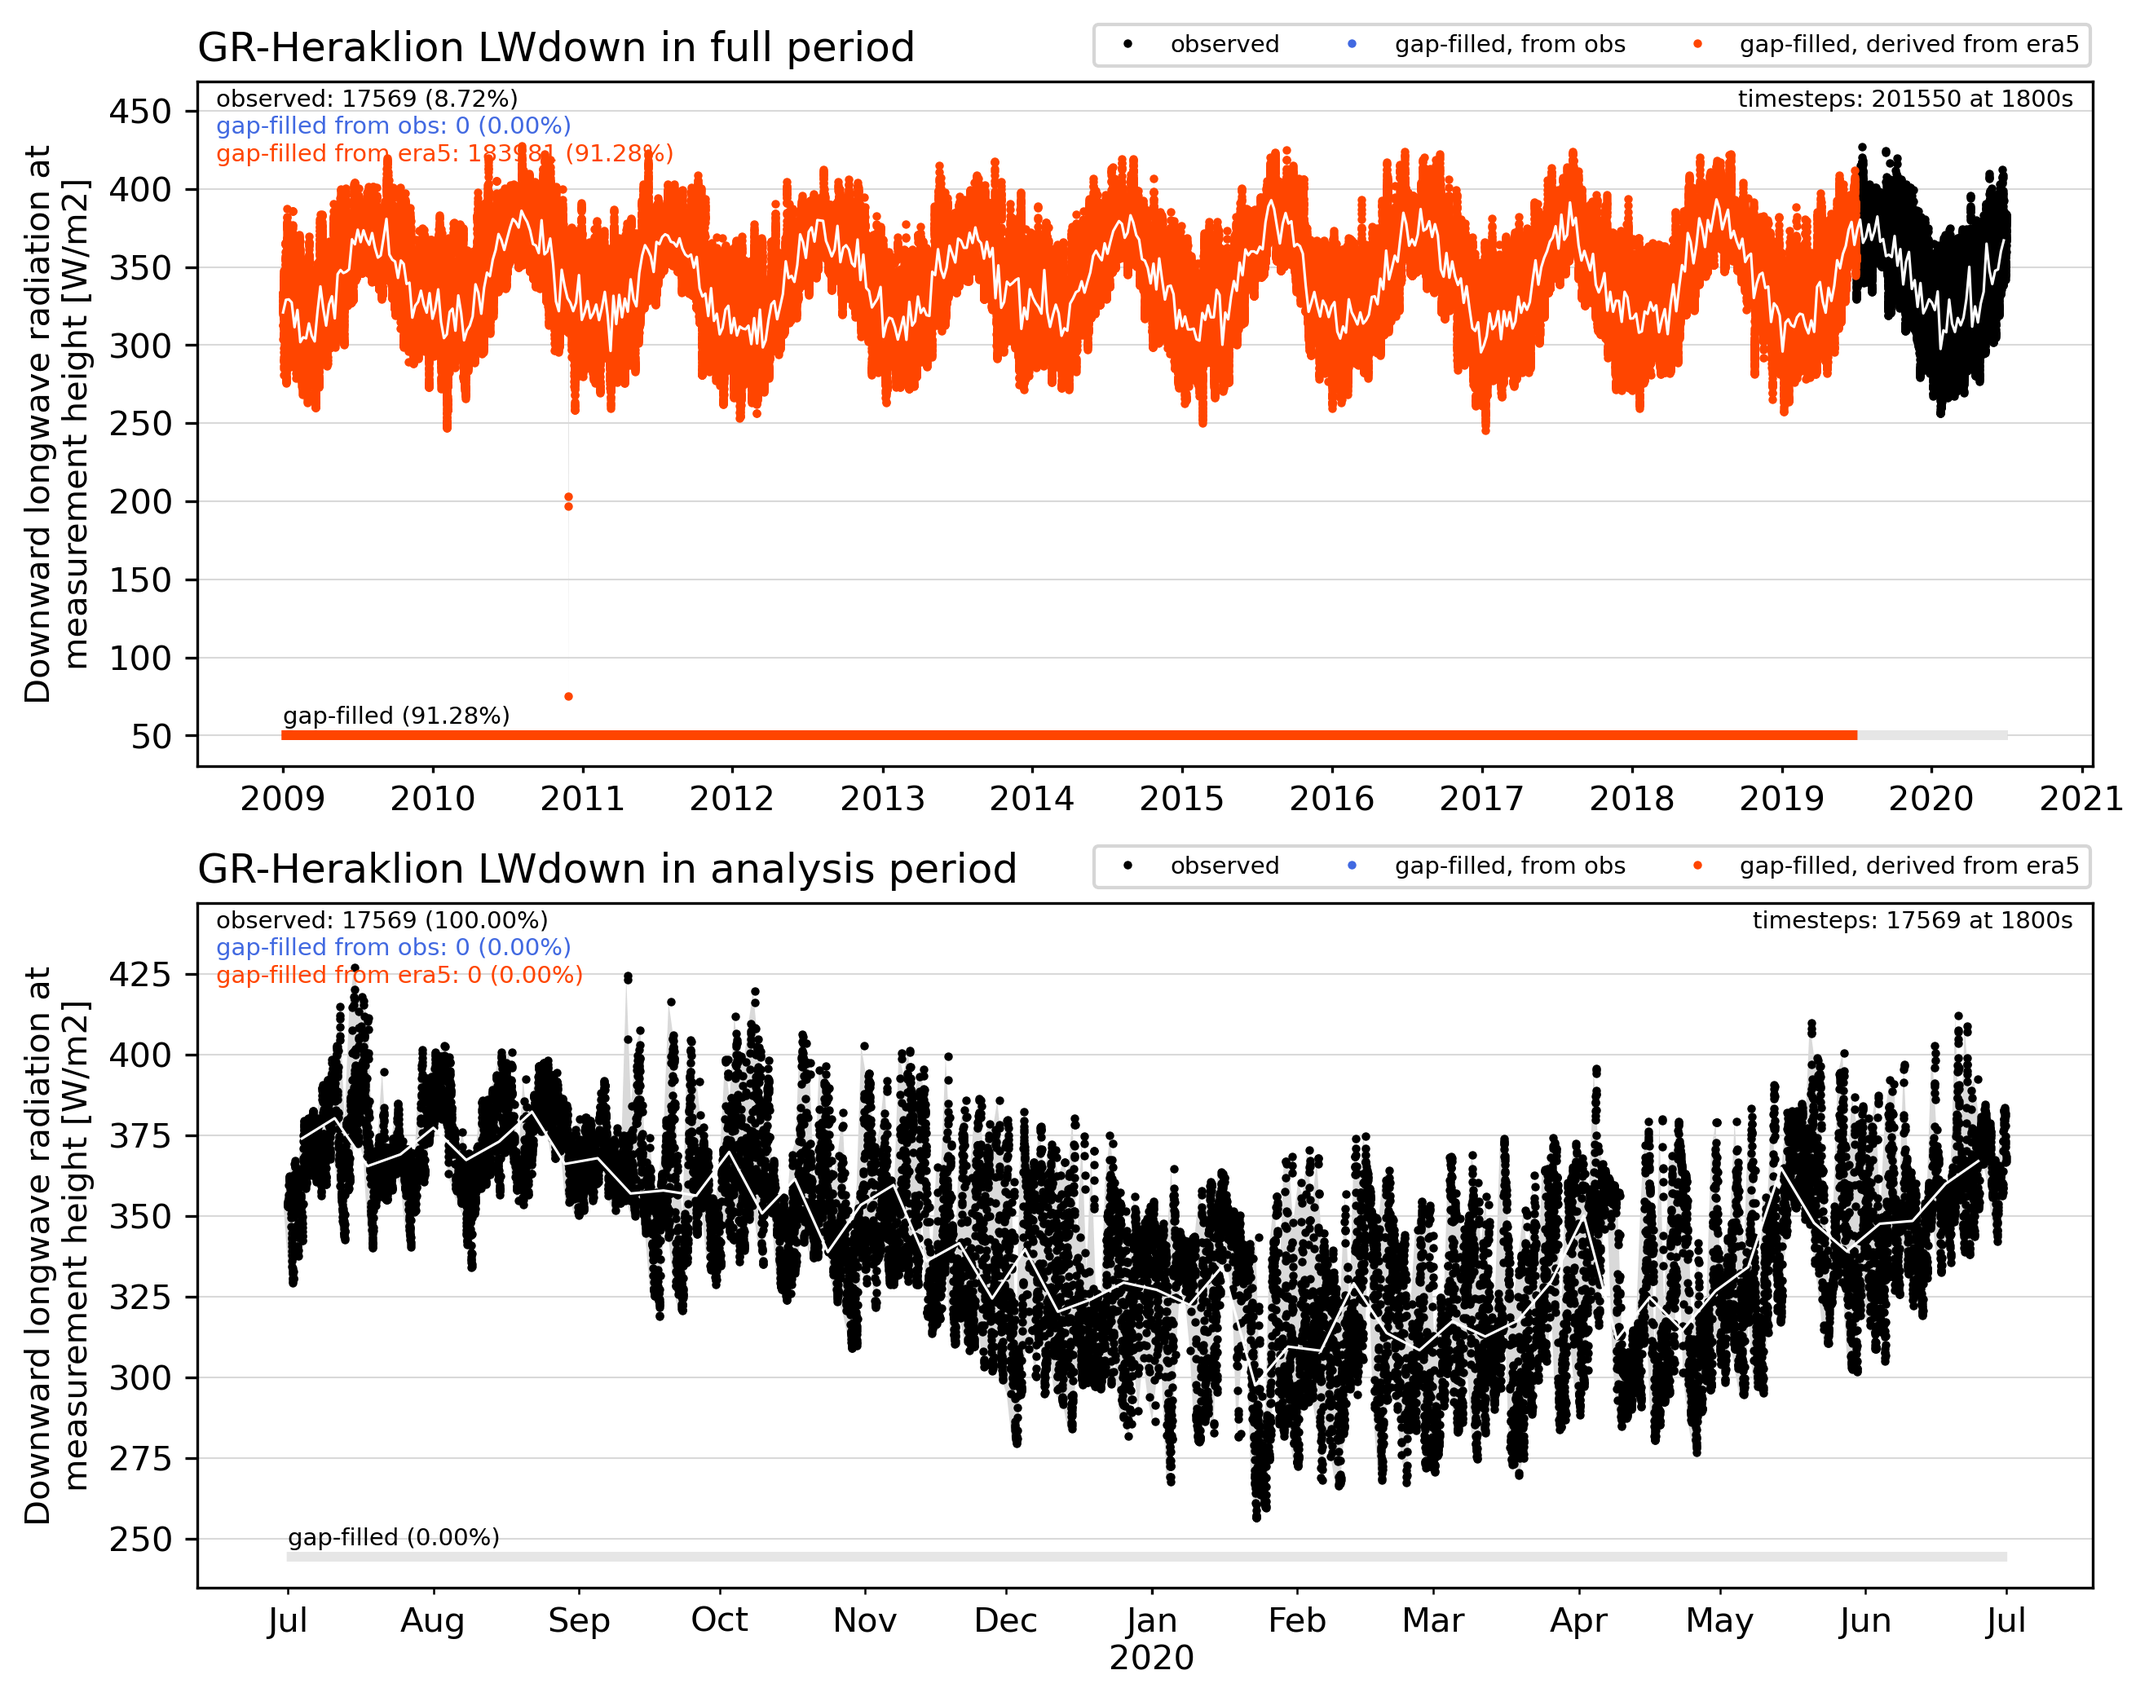
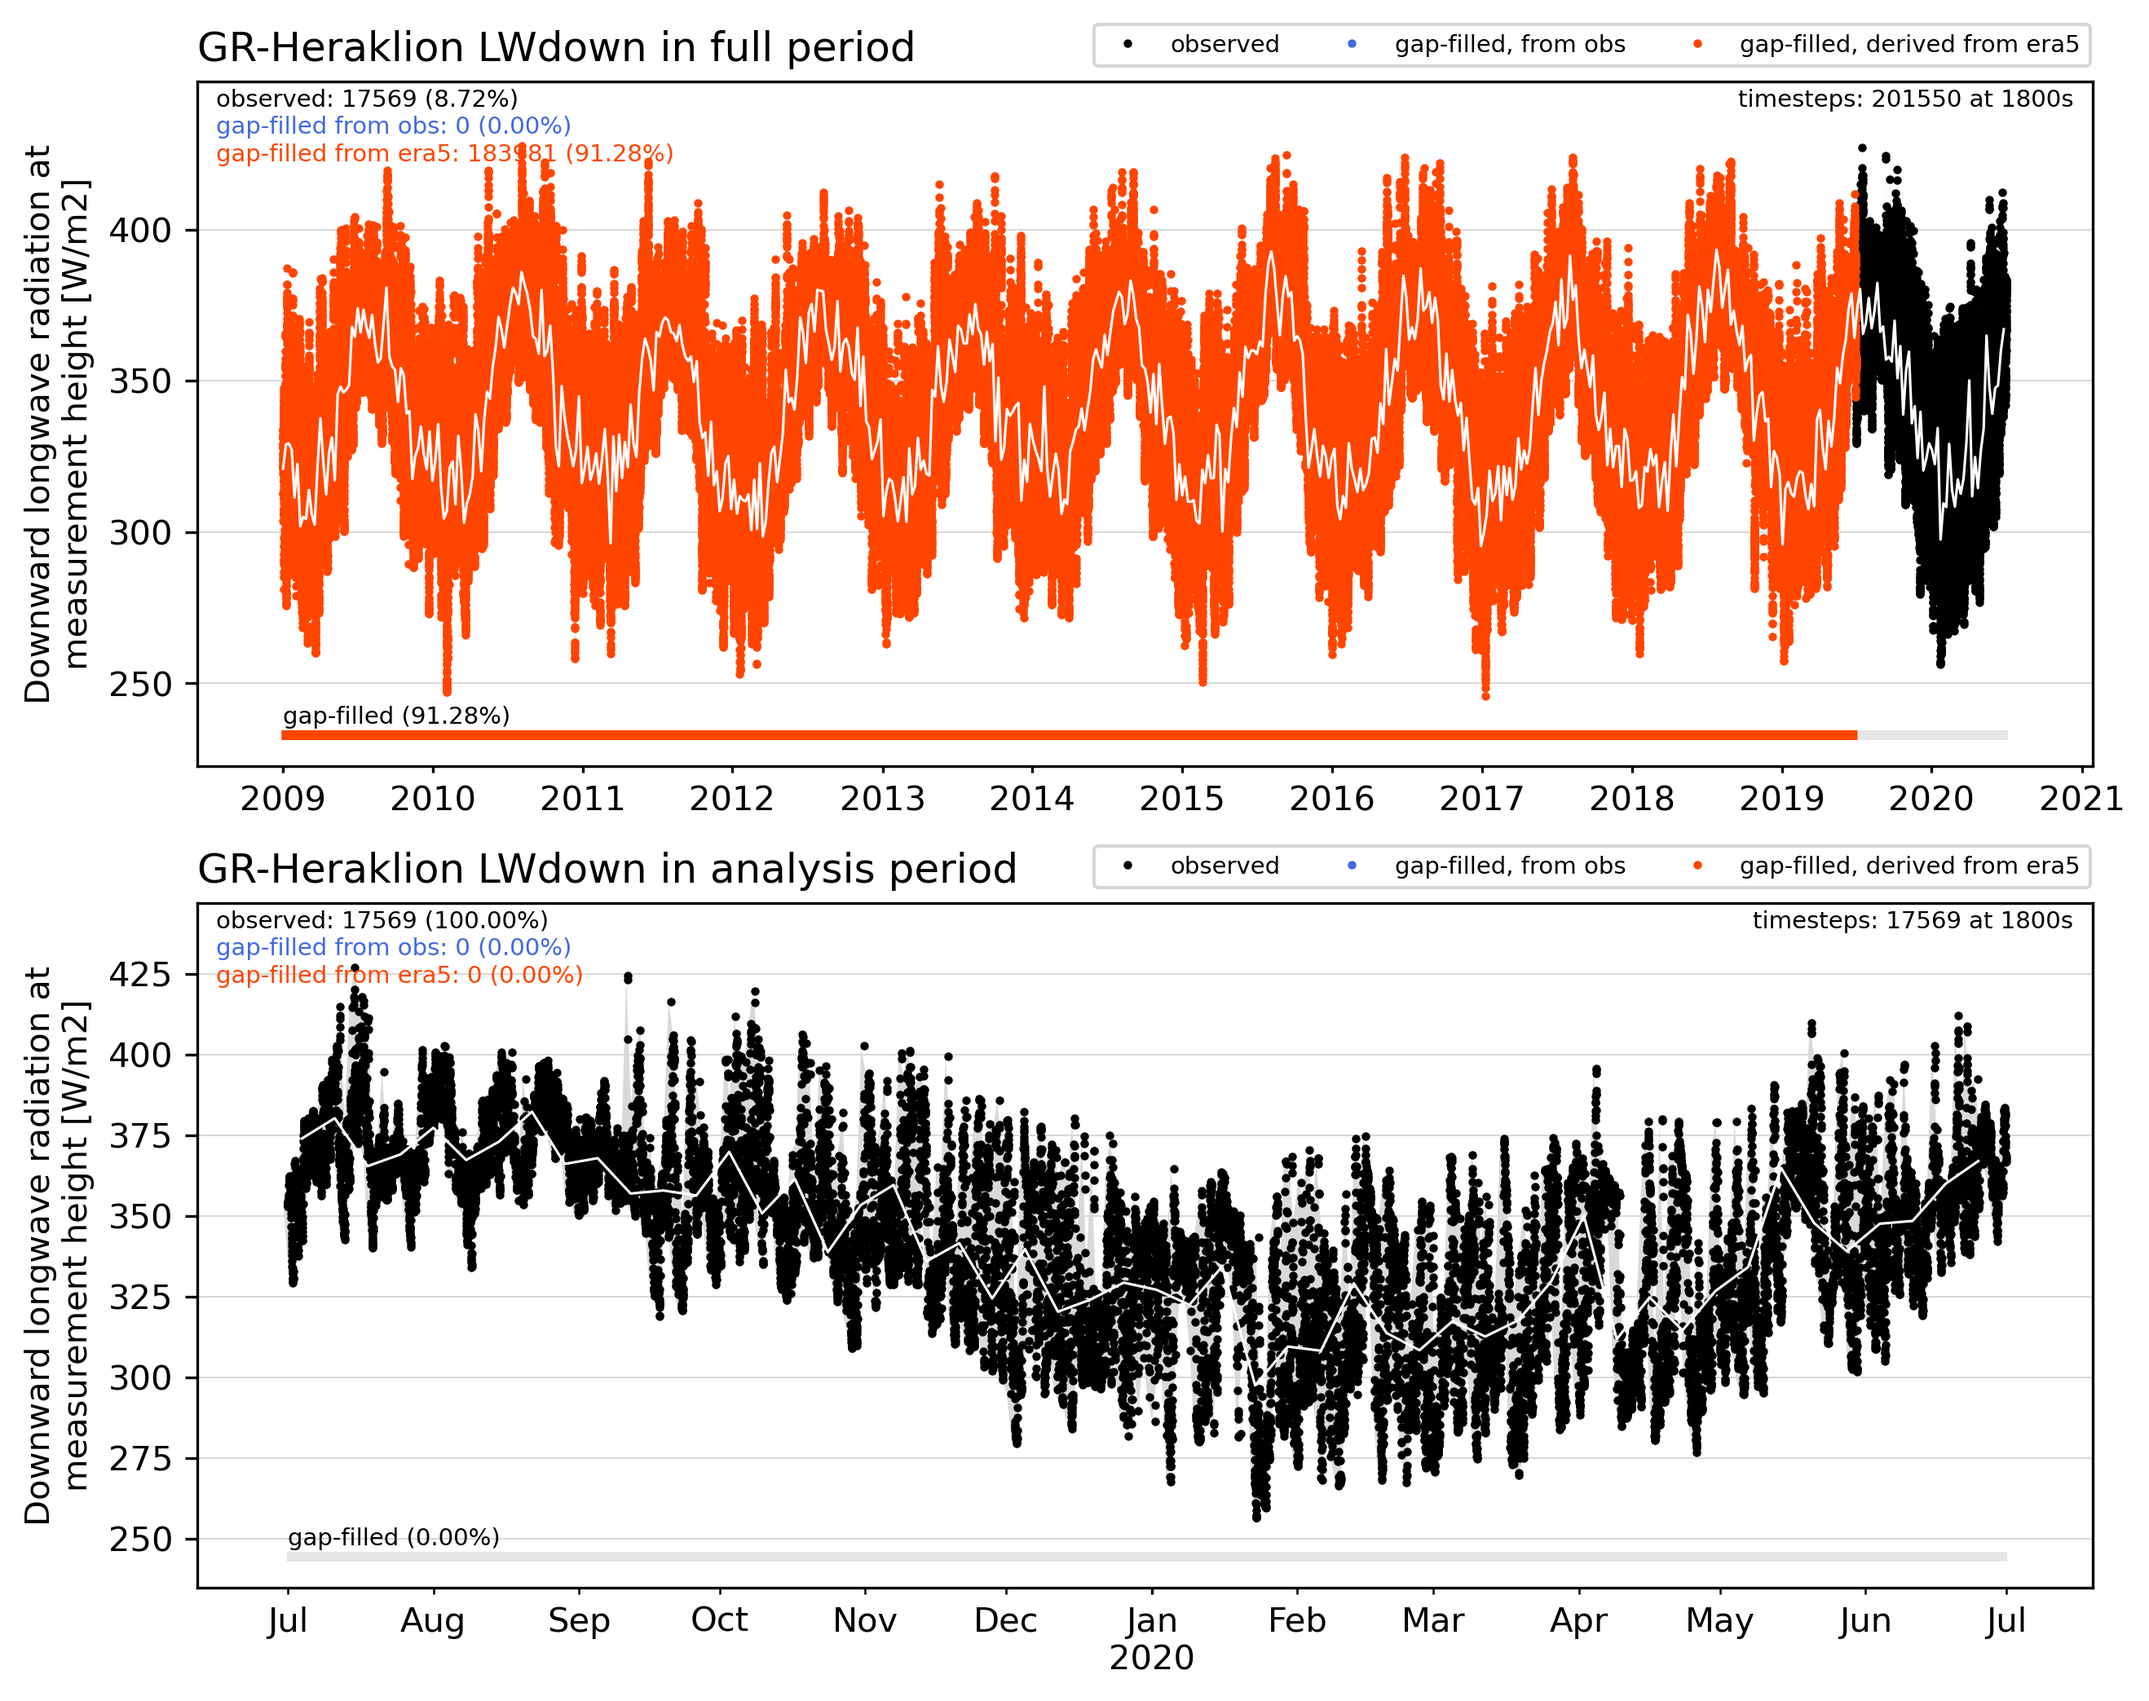
remove heraklion LW outlier, phoenix photo

diff --git a/FI-Kumpula/index.md b/FI-Kumpula/index.md
@@ -26,7 +26,7 @@
 | date_created              | 2021-04-03 15:09:23                                                                                                                                                                                          |
 | other_references          | ERA5: Copernicus Climate Change Service (C3S) (2017): https://cds.climate.copernicus.eu/cdsapp#!/home                                                                                                        |
 | acknowledgements          | Contains modified Copernicus Climate Change Service Information (ERA5 hourly data on single levels). With thanks to all involved in collecting, processing and sharing observational data                    |
-| comment                   | Inhomogeneities within footprint. Sectors excluded from analysis.                                                                                                                                            |
+| comment                   | Inhomogeneities within footprint. Land surface characteristics and turbulent flux data restricted to sectors 180-320 (Ku3 in Karsisto et al., 2016)                                                          |
 
 ## Site images
 
